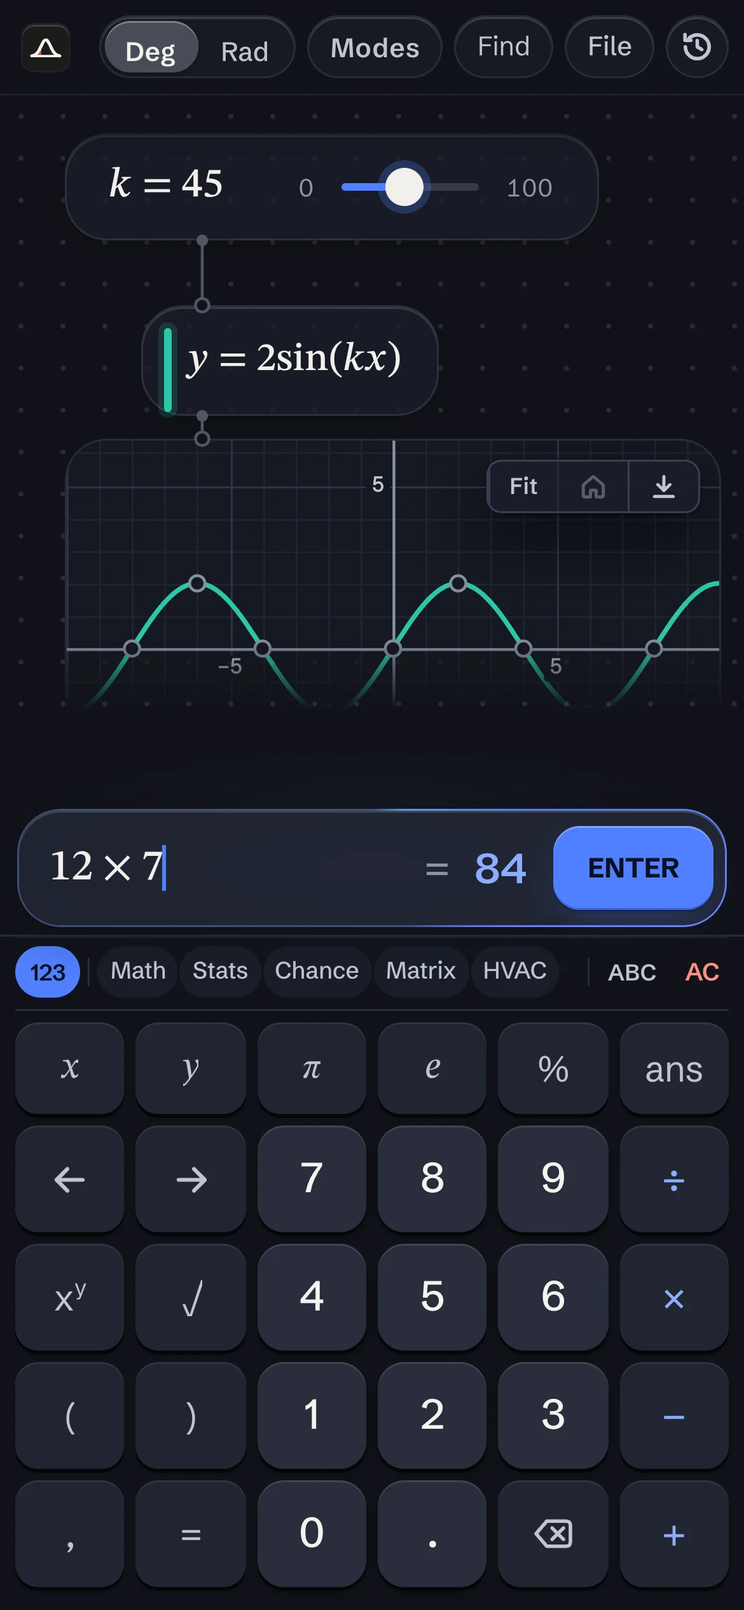
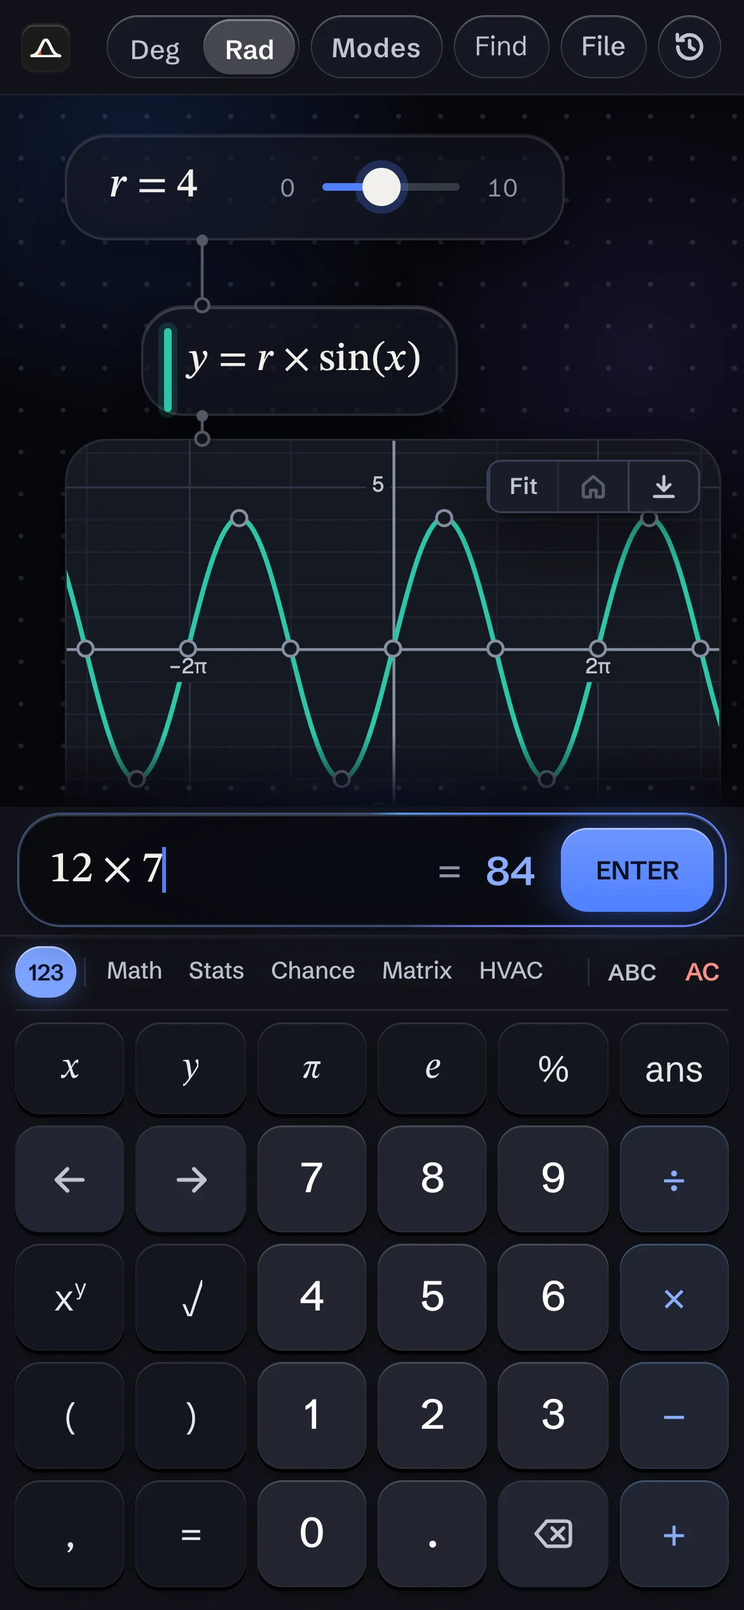
Refresh docs, privacy policy, landing copy, and phone screenshot

diff --git a/site/index.html b/site/index.html
@@ -3,12 +3,12 @@
   <head>
     <meta charset="utf-8" />
     <meta name="viewport" content="width=device-width, initial-scale=1" />
-    <title>Slopculator: a keyboard-first calculator and grapher</title>
-    <meta name="description" content="A free, open-source calculator and grapher for the web. Exact answers, statistics, matrices, calculus, graphs and HVAC, typed the way math is written. It runs in your browser and collects nothing." />
+    <title>Slopculator — calculator and grapher</title>
+    <meta name="description" content="Free, open-source calculator and grapher with exact arithmetic, statistics, matrices, calculus, graphing and HVAC. Runs offline in your browser with no accounts or tracking." />
     <meta name="theme-color" content="#09090b" />
     <meta property="og:type" content="website" />
     <meta property="og:title" content="Slopculator" />
-    <meta property="og:description" content="A free, open-source calculator and grapher for the web. Exact answers, statistics, matrices, calculus, graphs and HVAC." />
+    <meta property="og:description" content="Free, open-source calculator and grapher with exact arithmetic, statistics, matrices, calculus, graphing and HVAC." />
     <meta name="twitter:card" content="summary_large_image" />
     {{head}}
     {{icon}}
@@ -32,7 +32,7 @@
           <div class="pitch">
             <p class="fine"><span class="badge">Free &amp; MIT licensed · {{version}}</span></p>
             <h1>Slopculator</h1>
-            <p class="lead">A calculator and grapher you type into, wired live on a canvas. It runs in your browser and collects nothing.</p>
+            <p class="lead">A free, open-source calculator and grapher on a live wired canvas. Runs locally in your browser with zero tracking.</p>
             <div class="cta">
               <a class="btn primary" href="app">Open Slopculator</a>
               <a class="btn" href="https://github.com/Ferro-5G/slopculator">Source on GitHub</a>
@@ -44,9 +44,9 @@
                 <span class="shot-dots"><i></i><i></i><i></i></span>
                 <span class="shot-url">slopculator.com/app</span>
               </div>
-              <img class="shot desktop" src="{{desktop}}" width="1440" height="900" alt="Slopculator on a desktop: a dark canvas with a slider wired to a parabola and a sine wave on a graph block, a shaded normal distribution block, a matrix determinant, a floating composer, and a keypad." />
+              <img class="shot desktop" src="{{desktop}}" width="1440" height="900" alt="Slopculator on desktop in dark mode: a floating left sidebar with the sheet list, composer and keypad beside a spatial canvas showing a slider for r = 4 wired to A = πr², y = r × sin(x), y = 0.25x² − 2, and a graph of both curves." />
             </div>
-            <img class="shot phone" src="{{phone}}" width="390" height="844" alt="Slopculator on a phone: a slider wired to a sine wave and graph on the canvas, above the composer and keypad." />
+            <img class="shot phone" src="{{phone}}" width="390" height="844" alt="Slopculator on a phone in dark mode: a slider for r = 4 wired to y = r × sin(x) and its graph, with 12 × 7 = 84 in the composer above the keypad." />
           </div>
         </div>
       </section>
@@ -54,16 +54,16 @@
       <section class="facts">
         <div class="wrap">
           <article class="fact">
-            <p>In exact mode, <code>0.1 + 0.2</code> is <code>3/10</code>, and <code>25!</code> keeps all 26 digits.</p>
-            <p><code>2x</code>, <code>3(4 + 5)</code>, <code>sin 30</code> and <code>√16</code> mean what they look like, and missing brackets get filled in. Ctrl+K finds any function by name or by what it does.</p>
+            <p><strong>Exact math, natural notation.</strong> In exact mode, <code>0.1 + 0.2</code> is <code>3/10</code> and <code>25!</code> keeps all 26 digits.</p>
+            <p><code>2x</code>, <code>3(4 + 5)</code>, <code>sin 30</code> and <code>√16</code> parse as written, brackets auto-close, and <code>Ctrl+K</code> finds any function by name or description.</p>
           </article>
           <article class="fact">
-            <p>Graphs, statistics, matrices and calculus on one sheet.</p>
-            <p>Normal, binomial, t, χ² and F distributions, regressions, derivatives, integrals and <code>solve</code>. For HVAC, psychrometrics, 20 refrigerants, ducts and pipes. Every function is in the <a href="https://github.com/Ferro-5G/slopculator/blob/main/docs/functions.md">reference</a>.</p>
+            <p><strong>296 functions on one sheet.</strong> Graphing, statistics, matrices, calculus and engineering together.</p>
+            <p>Normal, binomial, t, χ² and F distributions, regressions, derivatives, integrals and <code>solve</code> — plus HVAC psychrometrics, 20 refrigerants, ducts and pipes. See the <a href="https://github.com/Ferro-5G/slopculator/blob/main/docs/functions.md">function reference</a>.</p>
           </article>
           <article class="fact">
-            <p>No account, analytics, ads or cookies.</p>
-            <p>Sheets stay in your browser, and the app works offline. You can <a href="https://github.com/Ferro-5G/slopculator/releases/latest">download it as one HTML file</a>. The source is on <a href="https://github.com/Ferro-5G/slopculator">GitHub</a> under the MIT license. Read the <a href="privacy">privacy policy</a>.</p>
+            <p><strong>Local-first and open source.</strong> No accounts, analytics, ads or tracking.</p>
+            <p>Your sheets stay in browser storage and the app works offline. You can also <a href="https://github.com/Ferro-5G/slopculator/releases/latest">download it as a single HTML file</a>. Licensed under <a href="https://github.com/Ferro-5G/slopculator/blob/main/LICENSE">MIT</a>; read the <a href="privacy">privacy policy</a>.</p>
           </article>
         </div>
       </section>

diff --git a/src/ui/privacy.ts b/src/ui/privacy.ts
@@ -2,40 +2,40 @@
  * The privacy policy: shown in the app, published at /privacy on a hosted copy, and kept as PRIVACY.md (a test holds
  * the three together). A paragraph may hold [text](https://link) links and nothing else.
  */
-export const PRIVACY_UPDATED = '15 November 2026';
-export const PRIVACY_INTRO = 'Slopculator collects nothing about you. It has no accounts, analytics, ads, cookies or tracking, and it never sends your calculations anywhere.';
+export const PRIVACY_UPDATED = '21 November 2026';
+export const PRIVACY_INTRO = 'Slopculator collects nothing about you. The app itself has no accounts, analytics, ads, cookies or tracking, and it never sends your calculations anywhere.';
 export const PRIVACY: { heading: string; paragraphs: string[] }[] = [
   {
     heading: 'What stays on your device',
     paragraphs: [
-      'Your lines, saved sheets, history and settings are kept in your browser\'s local storage, on your device. They leave it only when you export a file, copy, or share something yourself. Clearing this site\'s data in your browser deletes them.',
+      'Your lines, saved sheets, history and settings are stored only in your browser\'s local storage on your device. They leave your device only when you export a file, copy, or share something yourself. Clearing this site\'s data in your browser deletes them.',
     ],
   },
   {
     heading: 'What the app sends',
     paragraphs: [
-      'Nothing. Once the page has loaded it makes no network requests: no fonts, scripts or images from other sites. In a link that ends in #q=sqrt(2), the calculation sits after the #, and browsers never send that part to a server.',
+      'Nothing. Once the page loads, the app makes no network requests — no external fonts, scripts or images, and its Content Security Policy sets connect-src \'none\'. In a link ending in #q=sqrt(2), the calculation sits after the # fragment, which browsers do not send to a server.',
     ],
   },
   {
     heading: 'Hosting',
     paragraphs: [
-      'The website is served by Cloudflare. To deliver a page and block attacks, Cloudflare handles your IP address, your browser\'s name and the address you asked for, like any web host. Its [privacy policy](https://www.cloudflare.com/privacypolicy/) covers that data.',
-      'We don\'t get a log of visitors, and Cloudflare\'s visitor analytics stays off. Cloudflare\'s dashboard shows us totals, such as how many requests came in and from which countries, but nothing about any one person.',
-      'If Cloudflare decides a visit looks like an attack, it may show a check and set a cookie, cf_clearance, that records only that you passed it.',
-      'If your browser can\'t reach the site, it may send Cloudflare a short report about the failed connection. Cloudflare uses these reports to watch its network, and says it drops your IP address from them right away.',
+      'The website is hosted on Cloudflare Pages. To serve pages and mitigate abuse, Cloudflare processes your IP address, user-agent string and requested URL, as any web host does. Cloudflare\'s [privacy policy](https://www.cloudflare.com/privacypolicy/) covers that processing.',
+      'We do not collect visitor logs, and Cloudflare Web Analytics is off. Cloudflare\'s dashboard shows aggregate totals (such as request counts and countries), not individual visitors.',
+      'If Cloudflare flags a visit as suspicious, it may show a challenge and set a strictly necessary cookie (cf_clearance) recording that you passed it.',
+      'Cloudflare Pages sends Network Error Logging (NEL) headers with success_fraction set to 0.0, so your browser may send Cloudflare a short report only if a connection fails, never on normal page loads. Cloudflare states that it strips IP addresses from NEL reports.',
     ],
   },
   {
     heading: 'Source code and downloads',
     paragraphs: [
-      'The code and the downloadable file are on GitHub, which has its own [privacy statement](https://docs.github.com/site-policy/privacy-policies/github-general-privacy-statement). The downloaded file works like the website: it makes no requests and keeps everything in the browser that opens it.',
+      'The source code and downloadable single-file HTML releases are hosted on GitHub, under GitHub\'s [privacy statement](https://docs.github.com/site-policy/privacy-policies/github-general-privacy-statement). The downloaded file runs offline in your browser and makes no network requests.',
     ],
   },
   {
     heading: 'Changes and questions',
     paragraphs: [
-      'If this ever changes, this policy will say so, with a new date, before the app collects anything. Every past version is public in the repository.',
+      'If this ever changes, this policy will be updated with a new date before anything is collected. Every past version is public in the repository.',
       'Questions go to [the issue tracker](https://github.com/Ferro-5G/slopculator/issues).',
     ],
   },

diff --git a/docs/using.md b/docs/using.md
@@ -2,17 +2,19 @@
 
 Everything here applies on a computer and on a phone, except where it says otherwise. [Functions](functions.md) lists what you can type, and the [guide](guide.md) has worked examples.
 
-## Lines
+## Lines and the canvas
 
-Type one calculation per line. The answer appears beside it.
+Type one calculation in the composer and press Enter to send it.
 
-- `a = 3` defines a variable and gives it a slider. `f(x) = x^2` defines a function you can call, and the graph draws it.
-- `ans` is the answer of the line above. With Line letters on, line 1 is also `A`, line 2 is `B`, and later lines can use them.
+- On desktop, sent lines rise into the **Sheet** list in the left sidebar and appear as wired blocks on the 2D canvas beside it. Click any line in the sidebar or on the canvas to edit it in the composer; hover a sidebar line to highlight its block on the canvas.
+- On phones and narrow windows (`≤ 760 px`), blocks stack vertically in a single Cascade column with wires running down the left gutter.
+- `a = 3` defines a variable and creates a slider block. `f(x) = x^2` defines a function you can call, and the graph draws it.
+- `ans` is the answer of the line above. With **Line letters** on, line 1 is also `A`, line 2 is `B`, and later lines can use them.
 - Anything with an `x` is drawn on the graph: `y = 2x + 1`, `x = 3`, `x^2 + y^2 = 16`, `y > x^2`.
 - Start a line with `#` to make a heading.
-- Pasting several lines makes several lines.
+- Pasting several lines creates several lines as one undoable step.
 - `y1 ~ m x1 + b` is a regression: it fits `m` and `b` to the lists `x1` and `y1` and draws the fit. With a table headed `x` and `y`, write `y ~ mx + b`.
-- A line copied out of Desmos or typed the way a TI takes it mostly works as it is. [functions.md](functions.md#written-the-way-other-calculators-take-it) lists what is read.
+- Lines copied from Desmos or typed in TI notation mostly work as written. [functions.md](functions.md#written-the-way-other-calculators-take-it) lists what is read.
 
 Write math the way you would on paper. `2x`, `3(4 + 5)`, `sin 30`, `√16`, `|x|`, `5!` and `x²` all work. Brackets close themselves, and typing the closing bracket steps over it. Select text and type `(` to wrap it.
 
@@ -71,43 +73,42 @@ Choosing a function puts it in your line with the caret inside the brackets. The
 
 ## The keypad
 
-The number pad never changes. The digits are in the middle, the operators run down the right edge, and enter is at their foot. Over the pad are x, y, π, e, % and ans, then five tabs: Math, Stats, Chance, Matrix and HVAC.
+The keypad sits directly under the composer (inside the floating left sidebar on desktop, or docked at the bottom on phones). Above the number pad is a deck bar with **123** and five category tabs: **Math**, **Stats**, **Chance**, **Matrix**, and **HVAC**.
 
-- A tab opens a page of tiles over your lines, never over the keys. Each tile shows what it works out, like P(X = k) or area → z, with the function's name underneath. Point at a tile or key and the line under the keypad says what it does.
-- Click a tile and the function goes into your line. Grey names show the inputs still to type, as in `binompdf(10, 0.3, k)`, and each one disappears as you type it. The line shows no error until the inputs it needs are in.
-- The 2 × 2 and 3 × 3 matrix tiles put in a grid of empty cells. Type a number, then comma or Next to move to the next cell.
-- The page closes with ✕, its tab, a tile, Esc, or any key on the pad, which still types.
-- Hold ← or → to keep moving the caret. Hold ⌫ to clear the line. AC clears every line, and Undo brings them back.
+- Clicking a category tab swaps the number pad in place for that category's function tiles and guided builders, keeping the canvas in view. Click **123**, the active tab, a tile, or press Esc to return to the number pad.
+- On desktop, hovering a key or tile shows what it does in a hint strip above the keypad.
+- Clicking a tile inserts the function into the composer with grey input slots (such as `binompdf(n, p, k)`), which clear as you type.
+- The 2 × 2 and 3 × 3 matrix tiles insert a grid of empty cells; type a number, then comma or Enter to move to the next cell. Guided builders for matrices, shapes, vectors, calculus, distributions, and HVAC open from the top card on their tabs.
+- Hold `←` or `→` to keep moving the caret. Hold `⌫` to clear the current line. **AC** clears the sheet (with a 10-second Undo toast), and **ENTER** lives on the right end of the composer bar.
 
-**Keypad** in the top bar hides the keys, and the app remembers.
+**Keypad** in the desktop top bar hides or shows the keypad, and the choice is remembered.
 
 ## The graph
 
-Drag to pan, scroll to zoom, and hover to trace a curve. Shift+drag zooms into the box you draw. The buttons at the side zoom, fit every curve, square the axes, go home and save a picture.
+When a sheet plots something, the graph appears as a block on the canvas. On desktop, drag the graph's top strip to move it and drag its bottom-right corner to resize it.
 
-Each curve is named on the plot in its own color. Its zeros, highs and lows, y-intercept and crossings are marked with dots. Point near a dot and the readout snaps to it, like "zero (1.2247, 0)". Click to pin the label.
+Drag inside the plot to pan, scroll to zoom, and hover to trace a curve. Shift+drag zooms into a selection box. The toolbar in the top-right corner of the graph block zooms, fits every curve, squares the axes (`1:1`), resets to home, and exports a PNG.
 
-A slider line gets its slider under the line. Dragging it moves every curve that uses the variable. A slider for a whole number steps by 1 and runs from 0 to twice the number.
+Each plotted expression block carries its curve color along its left edge. Zeros, extrema, y-intercepts and intersections are marked with dots; hover near a dot to snap the readout and click to pin the label.
 
-With the keyboard in the graph, the arrows pan, + and − zoom, F fits, S squares the axes, 0 resets, P saves a PNG, C copies the image, [ and ] step through the marked points, Enter pins one, and Delete clears the pins.
+A slider block moves every curve and dependent block wired to that variable in real time, showing values along the wires while you drag. A slider for a whole number steps by 1 and runs from 0 to twice the number.
+
+With keyboard focus in the graph, arrow keys pan, `+` and `−` zoom, `F` fits, `S` squares the axes, `0` resets, `P` saves a PNG, `C` copies the image, `[` and `]` step through marked points, Enter pins one, and Delete clears pins.
 
 ## The top bar
 
-The top bar holds the modes you change most: Deg or Rad, Dec or Exact, Pop or Sample (population or sample standard deviation), the Percent, Line letters and Complex switches, and Round. **Modes** holds the rest, plus any the bar has no room for on a narrow window. To the right are Keypad, Graph, Appearance, Find, File and ? (every shortcut).
-
-Drag the line between the notebook and the graph to resize them.
+On desktop, the top bar holds **Deg | Rad**, canvas zoom controls (`− 100% + Fit all`), **Find** (`Ctrl+K` / `⌘K`), **File**, **History**, **Keypad**, **Modes** (Exact, Sample SD, Round, Percent, Line letters, Complex, Graph, Huge answers, and adding a percent), **Appearance** (the sliders icon), and **?** (all shortcuts).
 
 ## On a phone or a narrow window
 
-Under 760 px wide the app shows one pane at a time, Calculate or Graph, switched at the bottom.
+Under 760 px wide, the app switches to a single vertical Cascade canvas with the composer and keypad docked below it.
 
-- The keypad keeps the phone's own keyboard down. The keyboard button at the bottom right brings it back.
-- The modes and Appearance are in the Modes sheet, behind the sliders button at the top.
-- Clear all is in File, and its Undo stays for 10 seconds.
-- Long-press a line's number for its menu. File → Reorder lines puts ↑ and ↓ on every line until you tap Done.
-- On Graph, a chip for each plotted line sits over the graph tools, with a slider for each variable the curves use.
-- File → Share as text sends the sheet to another app where the browser can share.
-- Add the page to your home screen and it opens full screen.
+- Blocks stack in order with dependent blocks indented and wired down the left gutter; graphs and figures appear inline in the column.
+- The deck bar holds **123**, the five category tabs, **ABC** (to toggle the system keyboard on touch devices), and **AC**.
+- The top bar shows **Deg | Rad**, **Modes** (which includes both modes and Appearance), **Find**, **File**, and **History**. Below 390 px, **Find** becomes a magnifier icon.
+- Long-press a block for its menu. **File → Reorder lines** adds `↑` and `↓` buttons until you tap **Done**.
+- **File → Share as text** shares the sheet through the browser's share sheet where supported.
+- Adding the page to your home screen opens it full screen.
 
 ## Keyboard shortcuts
 
@@ -138,15 +139,17 @@ On a Mac, read Ctrl as ⌘ and Ctrl+Alt as Ctrl+Option. The app shows shortcuts 
 
 ## Looks and themes
 
-Appearance, beside Find, has two looks. **Modern** is a plain notebook beside the plot with one accent color. **Retro** draws the app as lab hardware, with green-bar printer paper and sculpted keycaps.
+**Appearance** (the sliders icon beside Modes on desktop, or inside the Modes sheet on phones) switches between two looks: **Modern** (frosted Liquid Glass sidebar and canvas blocks) and **Retro** (lab hardware with green-bar paper and ruled keycaps).
 
-A small sample at the top of Appearance shows your choices as you make them.
+A live preview at the top of Appearance reflects your choices as you change them:
 
-- **Mode** is System, which follows your computer, or Light or Dark.
-- **Pure black when dark** puts Dark on true black.
-- **High contrast** draws black and white with an outline on every control.
-- **Color** sets the accent: the caret, the line you're typing, enter and the operators.
-- **Motion** can be Full, Reduced or Off.
+- **Mode:** System (follows your OS), Light, or Dark.
+- **Pure black when dark:** switches Dark to true OLED black.
+- **High contrast:** black and white with explicit outlines on every control.
+- **Color:** sets the accent for the caret, active states, Enter, and operators.
+- **Aurora Glow** and **Keyboard Glow** (Modern): ambient deck-colored lighting on the canvas, composer rim, and keypad.
+- **Motion:** Full, Reduced, or Off.
+- **Key sounds:** toggles the recorded key clicks and feedback sounds.
 
 There is one more set of colors, and it isn't in the menu until you've earned it. The code is older than this calculator. Enter it the calculator's way: the number pad's arrows, then B A.
 

diff --git a/PRIVACY.md b/PRIVACY.md
@@ -1,33 +1,33 @@
 # Privacy
 
-Slopculator collects nothing about you. It has no accounts, analytics, ads, cookies or tracking, and it never sends your calculations anywhere.
+Slopculator collects nothing about you. The app itself has no accounts, analytics, ads, cookies or tracking, and it never sends your calculations anywhere.
 
 ## What stays on your device
 
-Your lines, saved sheets, history and settings are kept in your browser's local storage, on your device. They leave it only when you export a file, copy, or share something yourself. Clearing this site's data in your browser deletes them.
+Your lines, saved sheets, history and settings are stored only in your browser's local storage on your device. They leave your device only when you export a file, copy, or share something yourself. Clearing this site's data in your browser deletes them.
 
 ## What the app sends
 
-Nothing. Once the page has loaded it makes no network requests: no fonts, scripts or images from other sites. In a link that ends in #q=sqrt(2), the calculation sits after the #, and browsers never send that part to a server.
+Nothing. Once the page loads, the app makes no network requests — no external fonts, scripts or images, and its Content Security Policy sets connect-src 'none'. In a link ending in #q=sqrt(2), the calculation sits after the # fragment, which browsers do not send to a server.
 
 ## Hosting
 
-The website is served by Cloudflare. To deliver a page and block attacks, Cloudflare handles your IP address, your browser's name and the address you asked for, like any web host. Its [privacy policy](https://www.cloudflare.com/privacypolicy/) covers that data.
+The website is hosted on Cloudflare Pages. To serve pages and mitigate abuse, Cloudflare processes your IP address, user-agent string and requested URL, as any web host does. Cloudflare's [privacy policy](https://www.cloudflare.com/privacypolicy/) covers that processing.
 
-We don't get a log of visitors, and Cloudflare's visitor analytics stays off. Cloudflare's dashboard shows us totals, such as how many requests came in and from which countries, but nothing about any one person.
+We do not collect visitor logs, and Cloudflare Web Analytics is off. Cloudflare's dashboard shows aggregate totals (such as request counts and countries), not individual visitors.
 
-If Cloudflare decides a visit looks like an attack, it may show a check and set a cookie, cf_clearance, that records only that you passed it.
+If Cloudflare flags a visit as suspicious, it may show a challenge and set a strictly necessary cookie (cf_clearance) recording that you passed it.
 
-If your browser can't reach the site, it may send Cloudflare a short report about the failed connection. Cloudflare uses these reports to watch its network, and says it drops your IP address from them right away.
+Cloudflare Pages sends Network Error Logging (NEL) headers with success_fraction set to 0.0, so your browser may send Cloudflare a short report only if a connection fails, never on normal page loads. Cloudflare states that it strips IP addresses from NEL reports.
 
 ## Source code and downloads
 
-The code and the downloadable file are on GitHub, which has its own [privacy statement](https://docs.github.com/site-policy/privacy-policies/github-general-privacy-statement). The downloaded file works like the website: it makes no requests and keeps everything in the browser that opens it.
+The source code and downloadable single-file HTML releases are hosted on GitHub, under GitHub's [privacy statement](https://docs.github.com/site-policy/privacy-policies/github-general-privacy-statement). The downloaded file runs offline in your browser and makes no network requests.
 
 ## Changes and questions
 
-If this ever changes, this policy will say so, with a new date, before the app collects anything. Every past version is public in the repository.
+If this ever changes, this policy will be updated with a new date before anything is collected. Every past version is public in the repository.
 
 Questions go to [the issue tracker](https://github.com/Ferro-5G/slopculator/issues).
 
-Last updated 15 November 2026.
+Last updated 21 November 2026.

diff --git a/README.md b/README.md
@@ -3,11 +3,13 @@
 [![CI](https://github.com/Ferro-5G/slopculator/actions/workflows/ci.yml/badge.svg)](https://github.com/Ferro-5G/slopculator/actions/workflows/ci.yml)
 [![License: MIT](https://img.shields.io/badge/license-MIT-blue.svg)](LICENSE)
 
-A keyboard-first calculator and grapher. Type expressions one per line, read each answer on the right, and anything with an `x` is drawn on the graph. One TypeScript engine with no dependencies computes every answer.
+A keyboard-first calculator and grapher on a live wired canvas. Type calculations in the composer, inspect results and curves as connected blocks, and drag sliders or points to see every dependent value update live. One zero-dependency TypeScript engine computes every answer.
 
-![Slopculator in the Modern look: a sheet of lines on the left, the graph on the right](docs/images/modern.png)
+Use it live at **[slopculator.com](https://slopculator.com)** or run it offline as a single HTML file.
 
-It was built for Algebra 2 homework (Acellus units 7 to 13) and grew past it: exact arithmetic, statistics and distributions, matrices, calculus, regressions, unit conversion, and HVAC engineering. 296 functions in all.
+![Slopculator in Modern Dark: a floating left sidebar with the sheet list, composer and keypad beside a spatial canvas with a slider wired to an area calculation, two curves, and a graph](docs/images/modern.png)
+
+Started for Algebra 2 coursework and expanded to 296 functions across exact arithmetic, statistics and distributions, matrices, calculus, regressions, unit conversion, and HVAC engineering.
 
 ## Quick start
 
@@ -26,7 +28,7 @@ npm run build    # dist/index.html, one file that works offline
 
 | Platform | How | More |
 | --- | --- | --- |
-| Web | Download the page from the [latest release](https://github.com/Ferro-5G/slopculator/releases/latest), or `npm run build` and open `dist/index.html` | [Using the app](docs/using.md) |
+| Web | Use [slopculator.com](https://slopculator.com), download the single-file page from the [latest release](https://github.com/Ferro-5G/slopculator/releases/latest), or run `npm run build` and open `dist/index.html` | [Using the app](docs/using.md) |
 
 iOS and Android apps are in development and aren't in this repository yet.
 

diff --git a/docs/functions.md b/docs/functions.md
@@ -1,8 +1,8 @@
 # Functions
 
-Every built-in, grouped by area. To search by name or by what a function does: press Ctrl+/ in the app, or type a name on the keypad and read the hint.
+Every built-in, grouped by area. To search by name or by what a function does, press Ctrl+K (⌘K on Mac) or Ctrl+/ in the app.
 
-Most functions also sit on a keypad tab. Point at a key and the strip under the keypad explains it.
+Most functions also sit on a keypad tab. Point at a key or tile on desktop and the strip above the keypad explains it.
 
 ## Arithmetic and variables
 

diff --git a/CONTRIBUTING.md b/CONTRIBUTING.md
@@ -20,7 +20,7 @@ npm run e2e            # drives dist/index.html in Chrome (needs Google Chrome i
 npm run verify         # all of the above, in order
 ```
 
-CI runs the same list on every pull request. A pull request should pass it before review.
+CI runs `lint`, `typecheck`, `test`, and `build` automatically on pull requests (with `e2e` available via manual workflow dispatch). Run `npm run verify` locally before opening a pull request for review.
 
 ## Branches and pull requests
 

diff --git a/docs/roadmap.md b/docs/roadmap.md
@@ -2,9 +2,8 @@
 
 Plans, not promises. Dates are not set.
 
-## Before the next alpha
+## Near term
 
-- Cut it from the `release` branch with the workflow in [docs/releasing.md](releasing.md).
 - Release the iOS and Android apps, which are in development.
 
 ## 3D and XR
